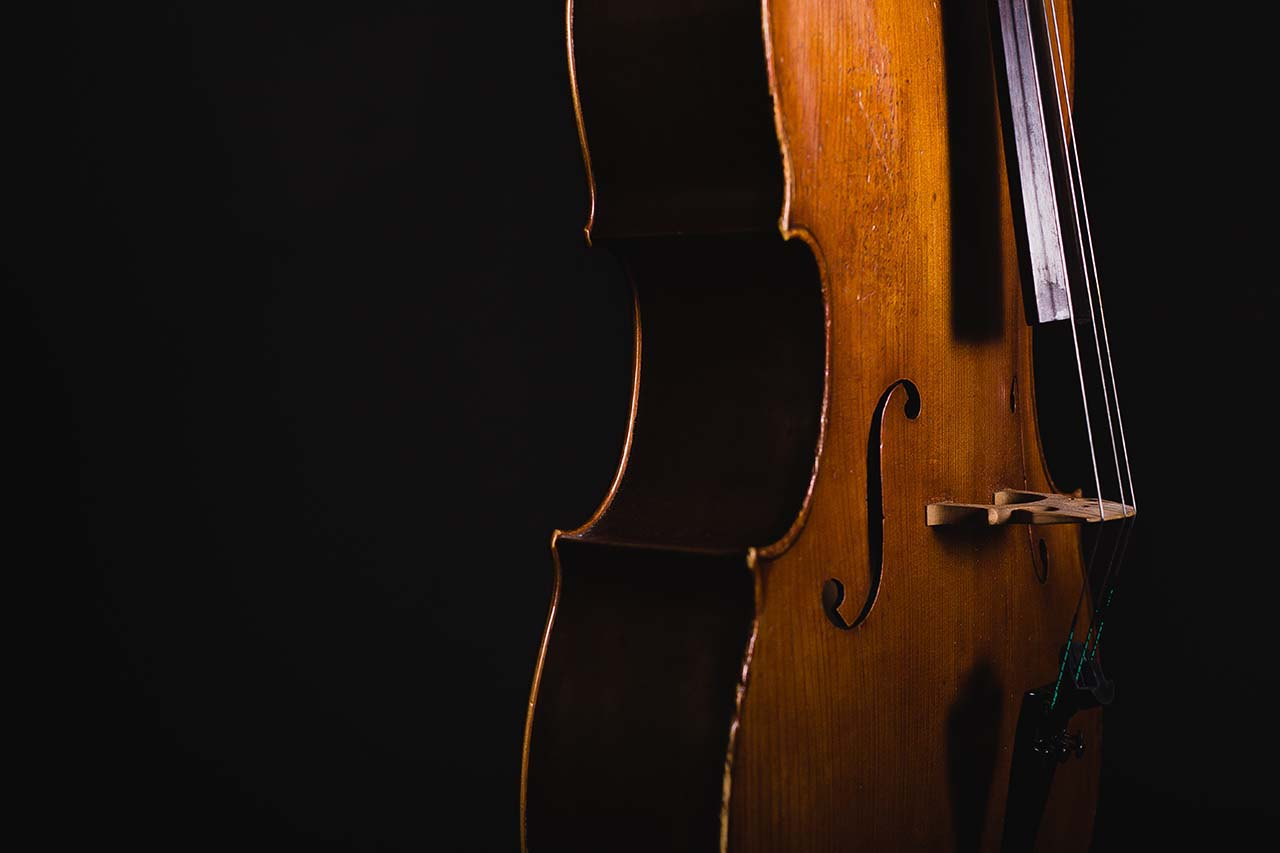
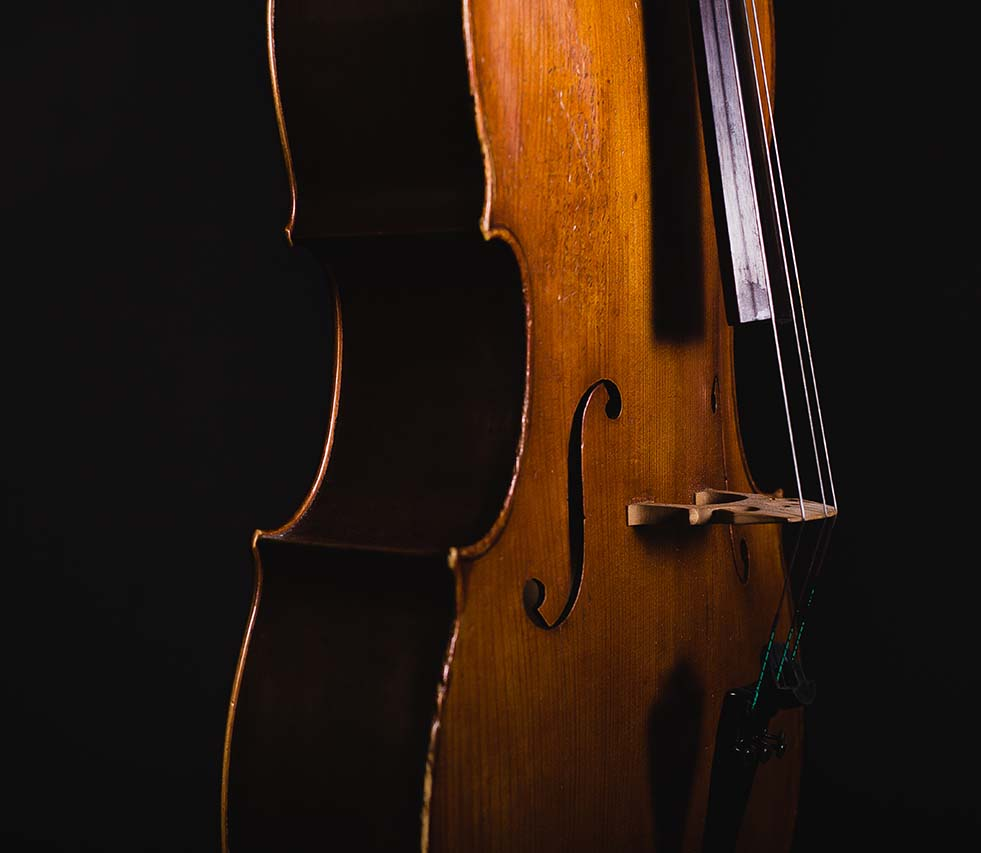
adding baseurl to images

diff --git a/css/main.css b/css/main.css
@@ -162,9 +162,26 @@ nav {
 
 /* line 125, ../assets/sass/_config.scss */
 section {
+  padding: 25px 0;
+  display: block;
   position: relative;
   overflow: hidden;
   border-bottom: 12px solid #30302f; }
+  @media (min-width: 540px) {
+    /* line 125, ../assets/sass/_config.scss */
+    section {
+      padding: 65px 0; } }
+  @media (min-width: 980px) {
+    /* line 125, ../assets/sass/_config.scss */
+    section {
+      padding: 145px 0; } }
+  /* line 140, ../assets/sass/_config.scss */
+  section:first-child {
+    padding: 25px 0 0 0; }
+    @media (min-width: 540px) {
+      /* line 140, ../assets/sass/_config.scss */
+      section:first-child {
+        padding: 75px 0 0 0; } }
 
 @font-face {
   font-family: 'cello-icons';
@@ -216,47 +233,34 @@ section {
   .bg-img img {
     background-repeat: no-repeat;
     background-position: right center;
-    background-size: contain;
+    background-size: cover;
     width: 100%;
     height: 100%;
-    content: ''; }
-    /* line 21, ../assets/sass/elements/_bg-img.scss */
+    content: '';
+    display: none; }
+    @media (min-width: 540px) {
+      /* line 13, ../assets/sass/elements/_bg-img.scss */
+      .bg-img img {
+        background-size: contain;
+        display: block; } }
+    /* line 27, ../assets/sass/elements/_bg-img.scss */
     #value .bg-img img {
       background-position: left center; }
 
-/* line 27, ../assets/sass/elements/_bg-img.scss */
-section {
-  padding: 25px 0;
-  display: block;
-  position: relative;
-  overflow: hidden;
-  position: relative; }
-  @media (min-width: 540px) {
-    /* line 27, ../assets/sass/elements/_bg-img.scss */
-    section {
-      padding: 145px 0; } }
-  /* line 38, ../assets/sass/elements/_bg-img.scss */
-  section:first-child {
-    padding: 25px 0 0 0; }
-    @media (min-width: 540px) {
-      /* line 38, ../assets/sass/elements/_bg-img.scss */
-      section:first-child {
-        padding: 75px 0 0 0; } }
-
-/* line 46, ../assets/sass/elements/_bg-img.scss */
+/* line 33, ../assets/sass/elements/_bg-img.scss */
 .img-wrap {
   margin-top: -30px;
   margin-left: -50px;
   margin-right: -50px;
   margin-bottom: -10px; }
   @media (min-width: 980px) {
-    /* line 46, ../assets/sass/elements/_bg-img.scss */
+    /* line 33, ../assets/sass/elements/_bg-img.scss */
     .img-wrap {
       margin-top: -150px;
       margin-left: -130px;
       margin-right: -130px;
       margin-bottom: -80px; } }
-  /* line 60, ../assets/sass/elements/_bg-img.scss */
+  /* line 47, ../assets/sass/elements/_bg-img.scss */
   .img-wrap img {
     position: relative;
     z-index: -1;

diff --git a/index.html b/index.html
@@ -39,7 +39,7 @@ title: 1969 Latvian Full-Size Cello For Sale
       </div>
       <div class="bg-img">
         <div class="container">
-          <img src="" alt="" style="background-image: url(/assets/img/cello-2.jpg);">
+          <img src="" alt="" style="background-image: url({{site.baseurl}}/assets/img/cello-2.jpg);">
         </div>
       </div>
     </div>
@@ -65,7 +65,7 @@ title: 1969 Latvian Full-Size Cello For Sale
     </div>
     <div class="bg-img">
       <div class="container">
-        <img src="" alt="" style="background-image: url(/assets/img/cello-3.jpg);">
+        <img src="" alt="" style="background-image: url({{site.baseurl}}/assets/img/cello-3.jpg);">
       </div>
     </div>
   </div>
@@ -82,7 +82,7 @@ title: 1969 Latvian Full-Size Cello For Sale
     </div>
     <div class="bg-img">
       <div class="container">
-        <img src="" alt="" style="background-image: url(/assets/img/cello-4.jpg);">
+        <img src="" alt="" style="background-image: url({{site.baseurl}}/assets/img/cello-4.jpg);">
       </div>
     </div>
   </div>

diff --git a/assets/sass/elements/_bg-img.scss b/assets/sass/elements/_bg-img.scss
@@ -13,32 +13,19 @@
   img {
     background-repeat: no-repeat;
     background-position: right center;
-    background-size: contain;
+    background-size: cover;
     width: 100%;
     height: 100%;
     content: '';
+    display: none;
+
+    @include breakpoint($break) {
+      background-size: contain;
+      display: block;
+    }
 
     #value & {
       background-position: left center;
-    }
-  }
-}
-
-section {
-  padding: 25px 0;
-  display: block;
-  position: relative;
-  overflow: hidden;
-  position: relative;
-
-  @include breakpoint($break) {
-    padding: 145px 0;
-  }
-
-  &:first-child {
-    padding: 25px 0 0 0;
-    @include breakpoint($break) {
-      padding: 75px 0 0 0;
     }
   }
 }

diff --git a/assets/sass/_config.scss b/assets/sass/_config.scss
@@ -123,8 +123,24 @@ nav {
 }
 
 section {
-  // padding: 145px 0;
+  padding: 25px 0;
+  display: block;
   position: relative;
   overflow: hidden;
   border-bottom: 12px solid $grey;
+
+  @include breakpoint($break) {
+    padding: 65px 0;
+  }
+
+  @include breakpoint($break2) {
+    padding: 145px 0;
+  }
+
+  &:first-child {
+    padding: 25px 0 0 0;
+    @include breakpoint($break) {
+      padding: 75px 0 0 0;
+    }
+  }
 }
